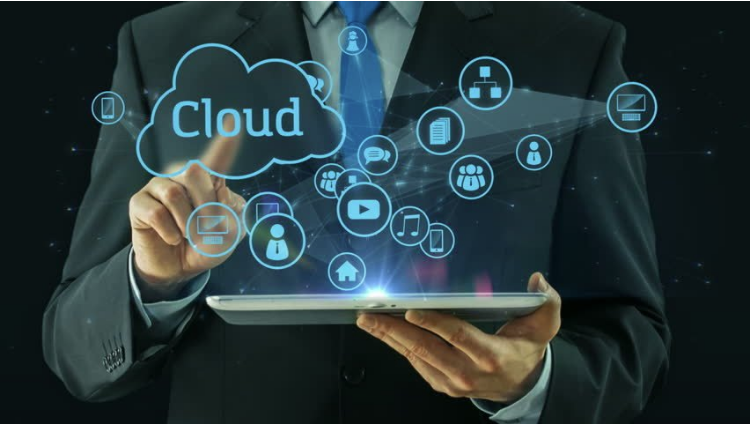
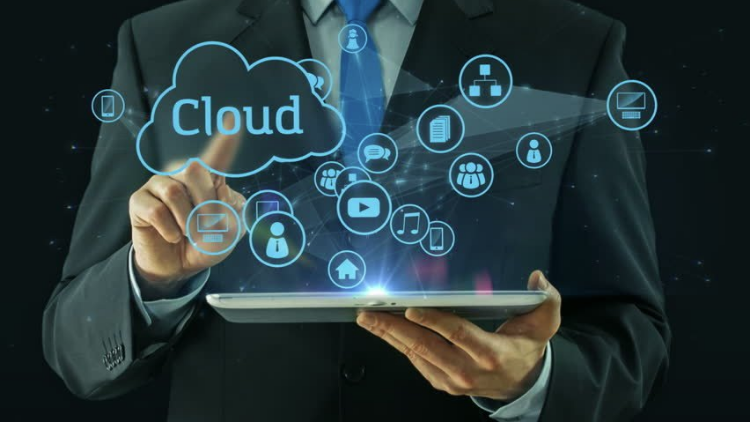
Added new service image

diff --git a/templates/about.html b/templates/about.html
@@ -7,7 +7,7 @@
 <div class="container page-container" id="aboutmain">
 
     <div class="row justify-content-center">
-        <div class="col-sm-8 col-lg-3 order-12 order-lg-1">
+        <div class="col-sm-12 col-lg-3 order-12 order-lg-1">
             <h2 id="pagetitle">Services</h2>
             <p class="sectionhead">OFFICE 365</p>
             <p class="blacktext">
@@ -32,7 +32,7 @@
                 We help you 24/7 with any technical questions or problems.
             </p>
         </div>
-        <div class="col-sm-8 col-lg-7 order-1 order-lg-12 mb-7">
+        <div class="col-sm-12 col-lg-7 order-1 order-lg-12">
             <img src="{{url_for('static', filename='images/service.png')}}" alt="Man with laptop" class="img-fluid">
         </div>
     </div>

diff --git a/static/css/style.css b/static/css/style.css
@@ -182,21 +182,13 @@ body {
     font-weight: 500;
 }
 
-.section {
-    color: red;
-    font-size: 1.2rem;
-}
-
-.text {
-    color: green;
-    font-size: 1rem;
-}
 .sectionhead {
     color: #37a0e7;
     font-size: 1.2rem;
     line-height: 1.5rem;
     letter-spacing: 0.25rem; 
-    padding-top: 0rem;
+    margin-bottom: 0.2rem;
+    font-weight: 500;
     text-decoration: overline;
 }
 
@@ -205,8 +197,7 @@ body {
     font-size: 1rem;
     line-height: 1.2rem;
     letter-spacing: 0.1rem; 
-    font-weight: 300;
-    margin-bottom: 1.5rem;
+    margin-bottom: 1.3rem;
 }
 
 
